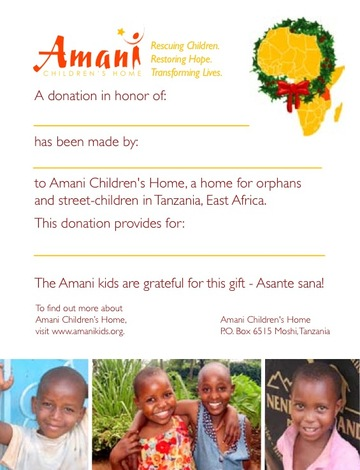
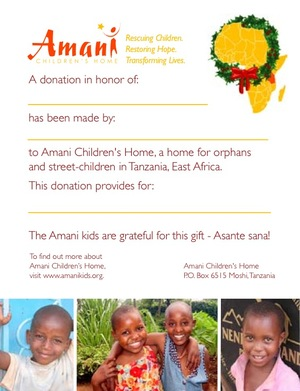
More layout tweaking.

diff --git a/public/stylesheets/sass/application.sass b/public/stylesheets/sass/application.sass
@@ -6,7 +6,7 @@
 !yellow_10 = rgb(252, 247, 227)
 
 / dimensions
-!card_width = 360px
+!card_width = 300px
 !font_size = 14px
 !logo_height = 123px
 !logo_width = 240px
@@ -119,8 +119,10 @@ a
         :padding 0
       table
         :margin-bottom = !font_size
+        tr
+          :vertical-align baseline
         .name
-          :padding-right = 5 * !font_size
+          :padding-right = 2 * !font_size
         .price
           :font-weight bold
           :text-align right
@@ -185,7 +187,9 @@ table.list
     :text-align left
     :vertical-align bottom
   tbody
+    :vertical-align baseline
     tr.even
       :background-color = !yellow_10
   tfoot
     :border-top 1px solid black
+    :vertical-align baseline
